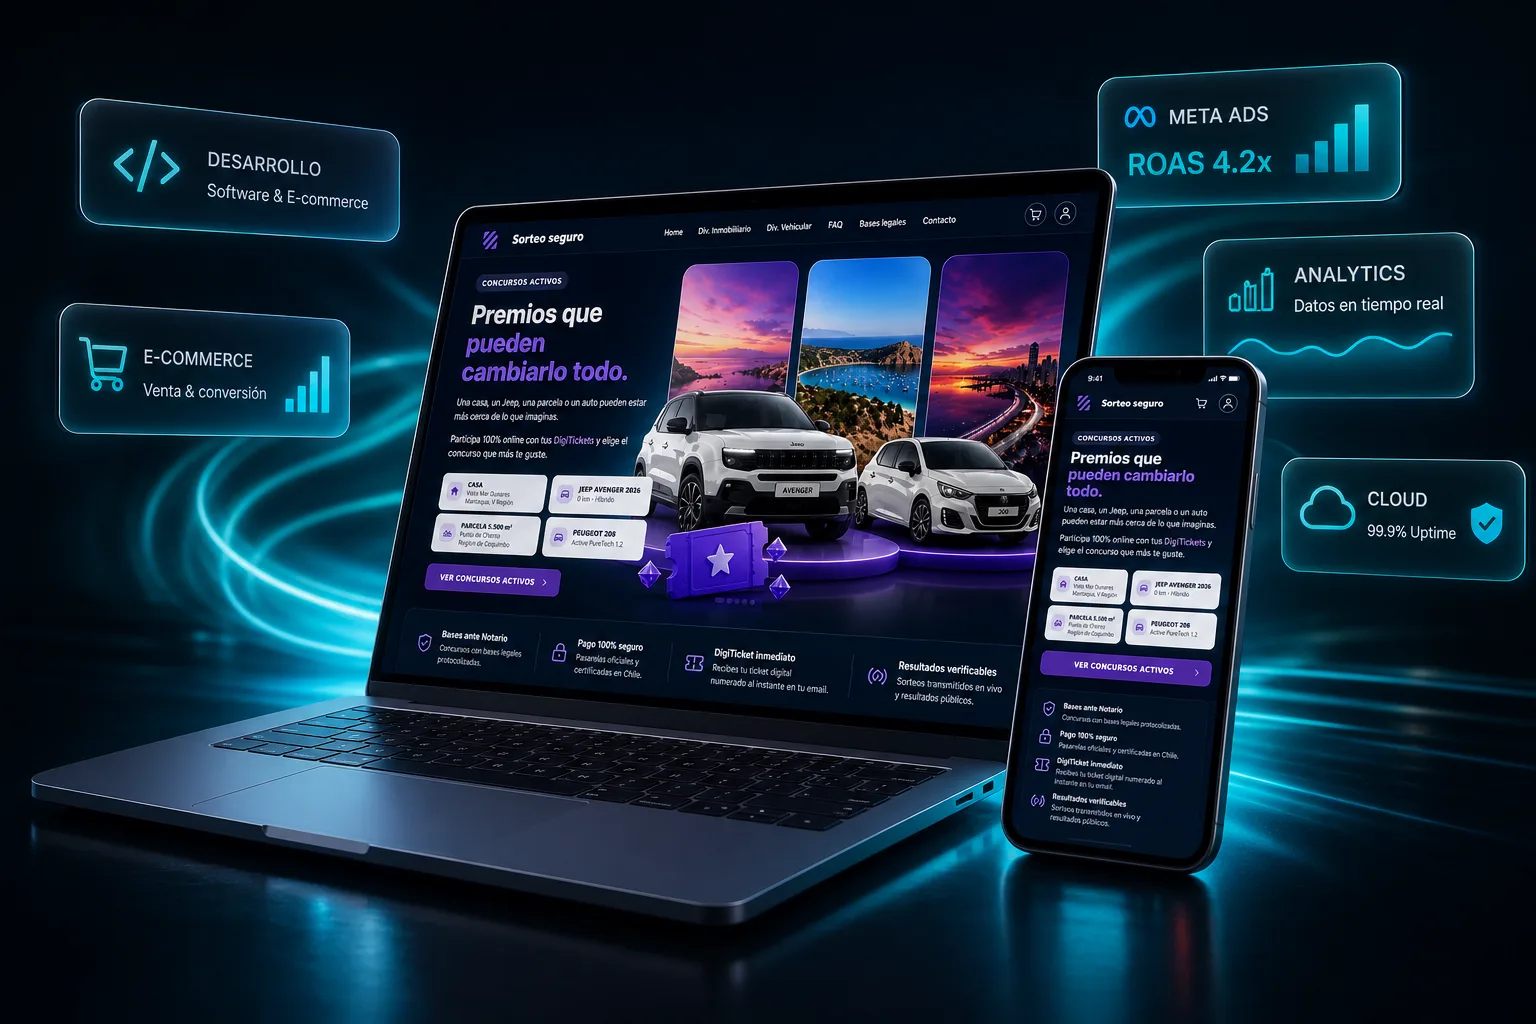
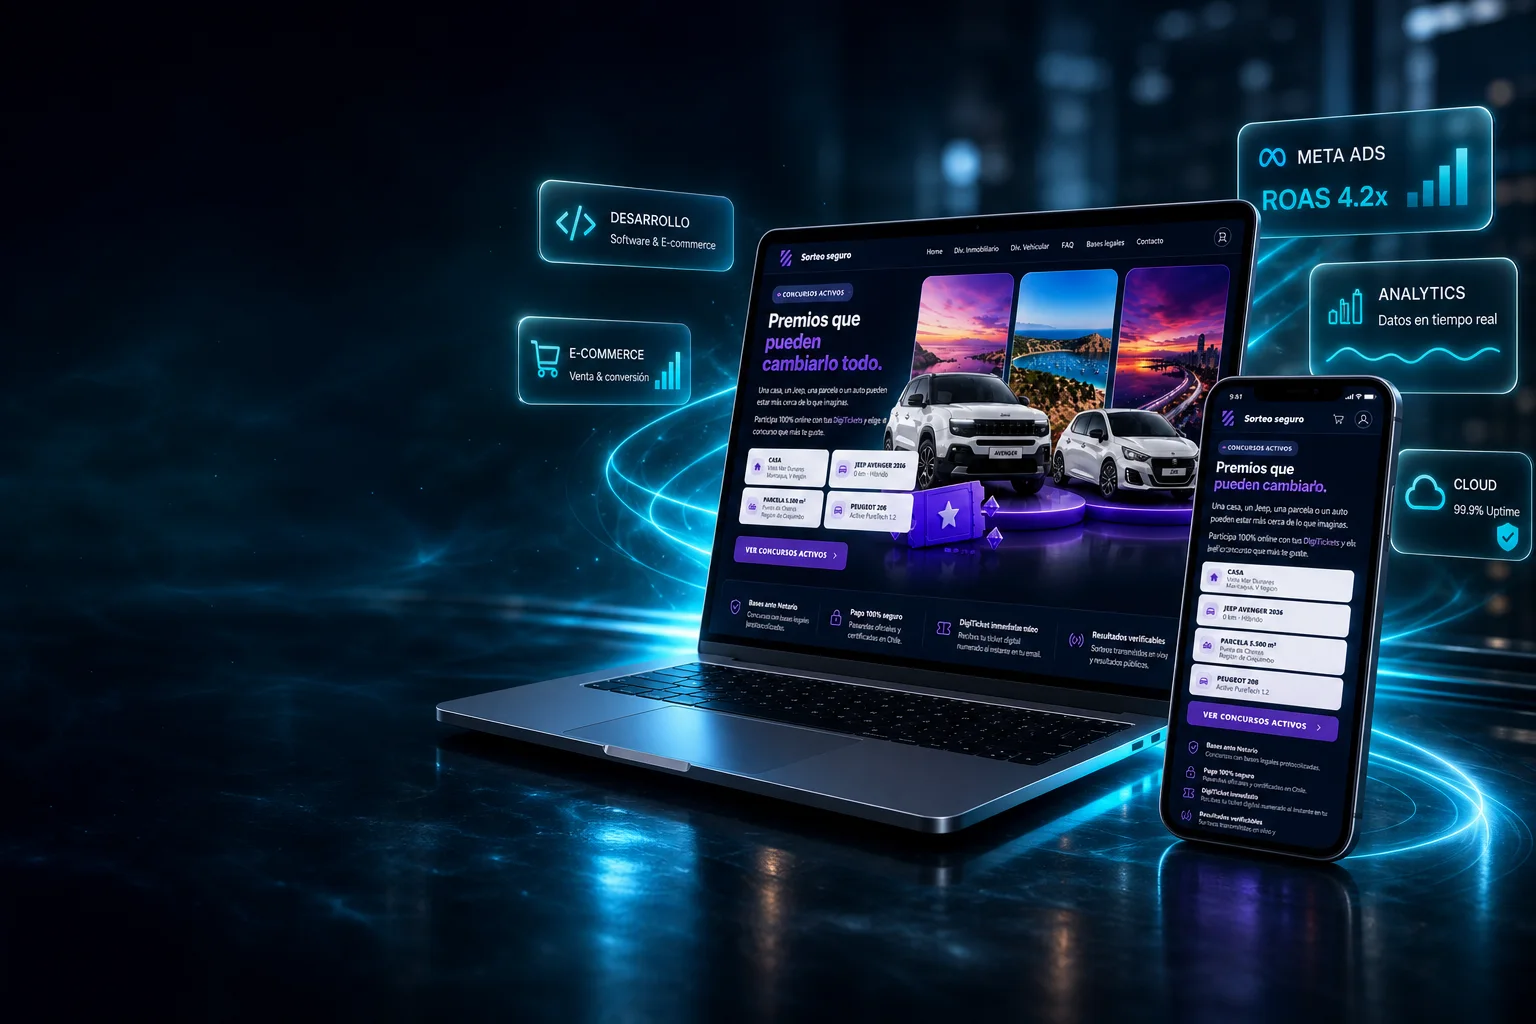
Rebuild home hero as full-bleed stage, not a boxed photo.

diff --git a/src/components/home/home-hero.tsx b/src/components/home/home-hero.tsx
@@ -3,7 +3,6 @@ import Link from "next/link";
 import {
   ArrowRight,
   BarChart3,
-  Cloud,
   Code2,
   Play,
   ShoppingCart,
@@ -39,19 +38,37 @@ const capabilityStrip = [
 
 export function HomeHero() {
   return (
-    <section className="relative overflow-hidden pt-14 pb-12 md:pt-20 md:pb-16">
-      <div className="pointer-events-none absolute inset-0 bg-[radial-gradient(ellipse_at_top_right,rgb(0_163_173_/_0.22),transparent_52%)]" />
-      <div className="pointer-events-none absolute inset-y-0 right-0 w-1/2 bg-[radial-gradient(ellipse_at_center,rgb(0_163_173_/_0.12),transparent_65%)]" />
+    <section className="relative isolate overflow-hidden lg:min-h-[min(56rem,calc(100svh-4rem))]">
+      <div className="pointer-events-none absolute inset-0 bg-[radial-gradient(ellipse_at_75%_35%,rgb(0_163_173_/_0.3),transparent_52%)]" />
+      <div className="pointer-events-none absolute inset-0 bg-[radial-gradient(ellipse_at_15%_85%,rgb(0_163_173_/_0.1),transparent_42%)]" />
 
-      <Container className="relative grid items-center gap-10 lg:grid-cols-[0.95fr_1.05fr] lg:gap-8">
-        <div>
+      {/* Desktop: visual stage pinned to the right, bleeding past the content column */}
+      <div className="pointer-events-none absolute inset-y-0 right-0 z-0 hidden w-[64%] lg:block">
+        <div className="absolute top-[18%] right-[4%] h-[70%] w-[80%] rounded-full bg-brand/25 blur-[90px]" />
+        <Image
+          src="/home/hero-devices.webp"
+          alt=""
+          fill
+          priority
+          sizes="64vw"
+          className="hero-float object-contain object-right scale-[1.12]"
+          aria-hidden
+        />
+        <div className="absolute inset-y-0 left-0 w-[28%] bg-linear-to-r from-background to-transparent" />
+        <div className="absolute inset-x-0 bottom-0 h-20 bg-linear-to-t from-background to-transparent" />
+      </div>
+
+      <div className="pointer-events-none absolute inset-y-0 left-0 z-[1] hidden w-[48%] bg-linear-to-r from-background via-background/95 to-transparent lg:block" />
+
+      <Container className="relative z-[2] flex flex-col pt-14 pb-10 md:pt-16 md:pb-12 lg:min-h-[min(56rem,calc(100svh-4rem))] lg:pt-20">
+        <div className="flex flex-1 flex-col justify-center lg:max-w-[36rem] xl:max-w-[40rem]">
           <Eyebrow className="hero-fade">Agencia tecnológica + Growth</Eyebrow>
           <HeroWords
             words="Tecnología que funciona. Marketing que la hace"
             accent="crecer."
-            className="mt-5 max-w-xl text-4xl font-semibold tracking-tight sm:text-5xl lg:text-[3.35rem] lg:leading-[1.08]"
+            className="mt-5 text-4xl font-semibold tracking-tight text-balance sm:text-5xl lg:text-[3.5rem] lg:leading-[1.06]"
           />
-          <p className="hero-fade hero-fade-2 mt-6 max-w-lg text-base leading-relaxed text-muted-foreground md:text-lg">
+          <p className="hero-fade hero-fade-2 mt-6 max-w-md text-base leading-relaxed text-muted-foreground md:text-lg">
             Diseñamos, construimos y hacemos crecer productos digitales de alto
             rendimiento — con métricas de ventas, leads y velocidad, no de
             vanidad.
@@ -72,41 +89,42 @@ export function HomeHero() {
           </div>
         </div>
 
-        <div className="hero-fade hero-fade-2 relative">
-          <div className="pointer-events-none absolute top-1/2 left-1/2 h-[70%] w-[70%] -translate-x-1/2 -translate-y-1/2 rounded-full bg-brand/20 blur-3xl" />
+        {/* Mobile/tablet: stage under the copy, still edge-to-edge within the hero */}
+        <div className="hero-fade hero-fade-2 relative mt-10 -mx-5 aspect-[4/3] sm:-mx-6 lg:hidden">
+          <div className="absolute inset-0 bg-[radial-gradient(ellipse_at_center,rgb(0_163_173_/_0.35),transparent_60%)]" />
           <Image
             src="/home/hero-devices.webp"
-            alt="Laptop y móvil mostrando Sorteo Seguro, un caso de e-commerce del portafolio Vixon Studio"
-            width={1536}
-            height={1024}
+            alt="Laptop y móvil mostrando Sorteo Seguro, caso del portafolio Vixon Studio"
+            fill
             priority
-            sizes="(max-width: 1024px) 100vw, 54vw"
-            className="hero-float relative z-10 mx-auto h-auto w-full max-w-2xl drop-shadow-[0_30px_80px_rgba(0,163,173,0.25)]"
+            sizes="100vw"
+            className="object-contain object-center"
           />
         </div>
-      </Container>
 
-      <Container className="hero-fade hero-fade-4 relative mt-12 md:mt-16">
-        <div className="grid grid-cols-2 gap-px overflow-hidden rounded-2xl border border-white/10 bg-white/5 md:grid-cols-4">
-          {capabilityStrip.map((item) => (
-            <div
-              key={item.label}
-              className="flex items-start gap-3 bg-background/80 px-4 py-5 backdrop-blur-sm md:px-5"
-            >
-              <item.icon className="mt-0.5 size-5 shrink-0 text-brand" aria-hidden />
-              <div>
-                <p className="text-[0.65rem] font-semibold tracking-[0.16em] text-foreground uppercase">
-                  {item.label}
-                </p>
-                <p className="mt-1 text-xs text-muted-foreground">{item.detail}</p>
+        <div className="hero-fade hero-fade-4 mt-8 border-t border-white/10 pt-2 md:mt-10 lg:mt-auto lg:pt-4">
+          <div className="grid grid-cols-2 md:grid-cols-4 md:divide-x md:divide-white/10">
+            {capabilityStrip.map((item) => (
+              <div
+                key={item.label}
+                className="flex items-start gap-3 px-1 py-4 md:px-5 md:first:pl-0 md:last:pr-0"
+              >
+                <item.icon
+                  className="mt-0.5 size-5 shrink-0 text-brand"
+                  aria-hidden
+                />
+                <div>
+                  <p className="text-[0.65rem] font-semibold tracking-[0.16em] text-foreground uppercase">
+                    {item.label}
+                  </p>
+                  <p className="mt-1 text-xs text-muted-foreground">
+                    {item.detail}
+                  </p>
+                </div>
               </div>
-            </div>
-          ))}
+            ))}
+          </div>
         </div>
-        <p className="mt-4 flex items-center gap-2 text-[0.65rem] tracking-[0.14em] text-muted-foreground uppercase">
-          <Cloud className="size-3.5 text-brand" aria-hidden />
-          Stack cloud, producto y growth listo para producción
-        </p>
       </Container>
     </section>
   );

diff --git a/src/components/sections/logo-ribbon.tsx b/src/components/sections/logo-ribbon.tsx
@@ -4,20 +4,20 @@ export function LogoRibbon() {
   const logos = [...techLogos, ...techLogos];
 
   return (
-    <section className="overflow-hidden border-y border-black/5 bg-canvas py-10">
-      <div className="mb-6 px-5">
-        <p className="text-center text-xs font-semibold tracking-[0.2em] text-canvas-foreground/45 uppercase">
-          Stack y plataformas con las que construimos
+    <section className="overflow-hidden border-y border-white/8 bg-background/80 py-8 backdrop-blur-sm">
+      <div className="mb-5 px-5">
+        <p className="text-center text-xs font-semibold tracking-[0.2em] text-brand/80 uppercase">
+          Tecnología que usamos todos los días
         </p>
       </div>
       <div className="relative">
-        <div className="pointer-events-none absolute inset-y-0 left-0 z-10 w-16 bg-linear-to-r from-canvas to-transparent" />
-        <div className="pointer-events-none absolute inset-y-0 right-0 z-10 w-16 bg-linear-to-l from-canvas to-transparent" />
+        <div className="pointer-events-none absolute inset-y-0 left-0 z-10 w-16 bg-linear-to-r from-background to-transparent" />
+        <div className="pointer-events-none absolute inset-y-0 right-0 z-10 w-16 bg-linear-to-l from-background to-transparent" />
         <div className="flex w-max animate-marquee items-center gap-14 px-6 motion-reduce:animate-none">
           {logos.map((logo, index) => (
             <span
               key={`${logo.name}-${index}`}
-              className="flex shrink-0 items-center gap-2.5 text-canvas-foreground/45"
+              className="flex shrink-0 items-center gap-2.5 text-foreground/45"
             >
               <svg
                 viewBox="0 0 24 24"
